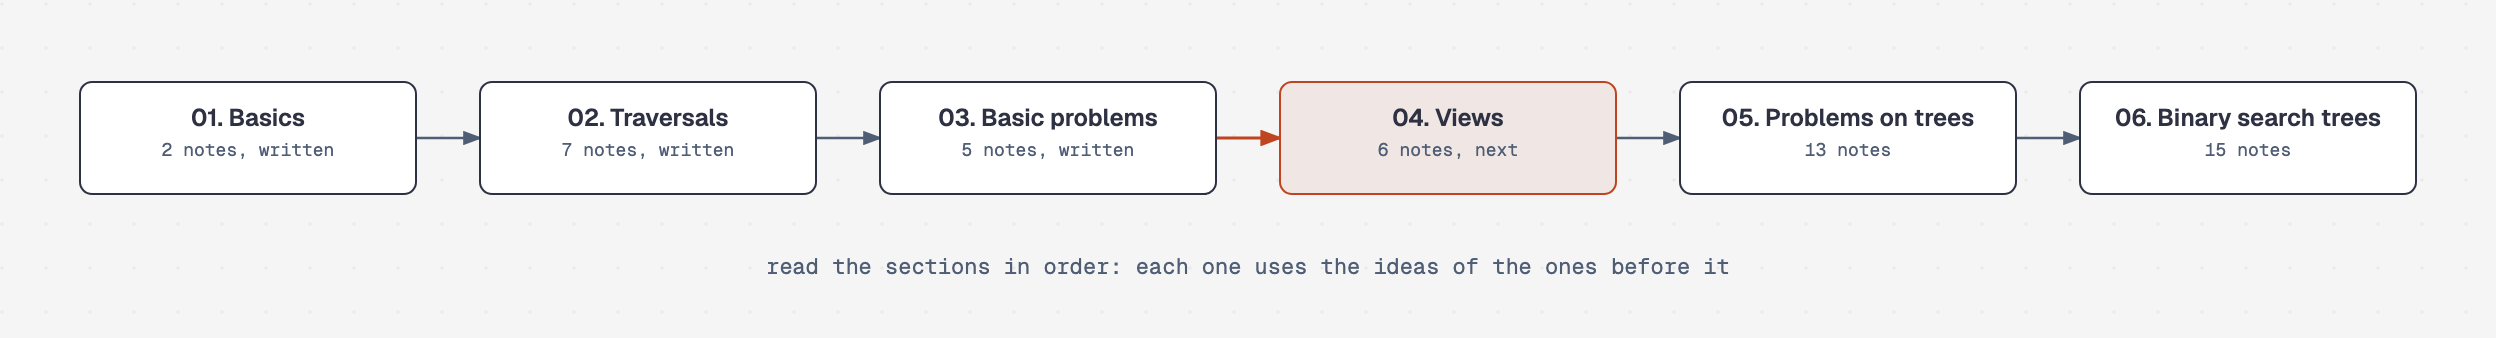
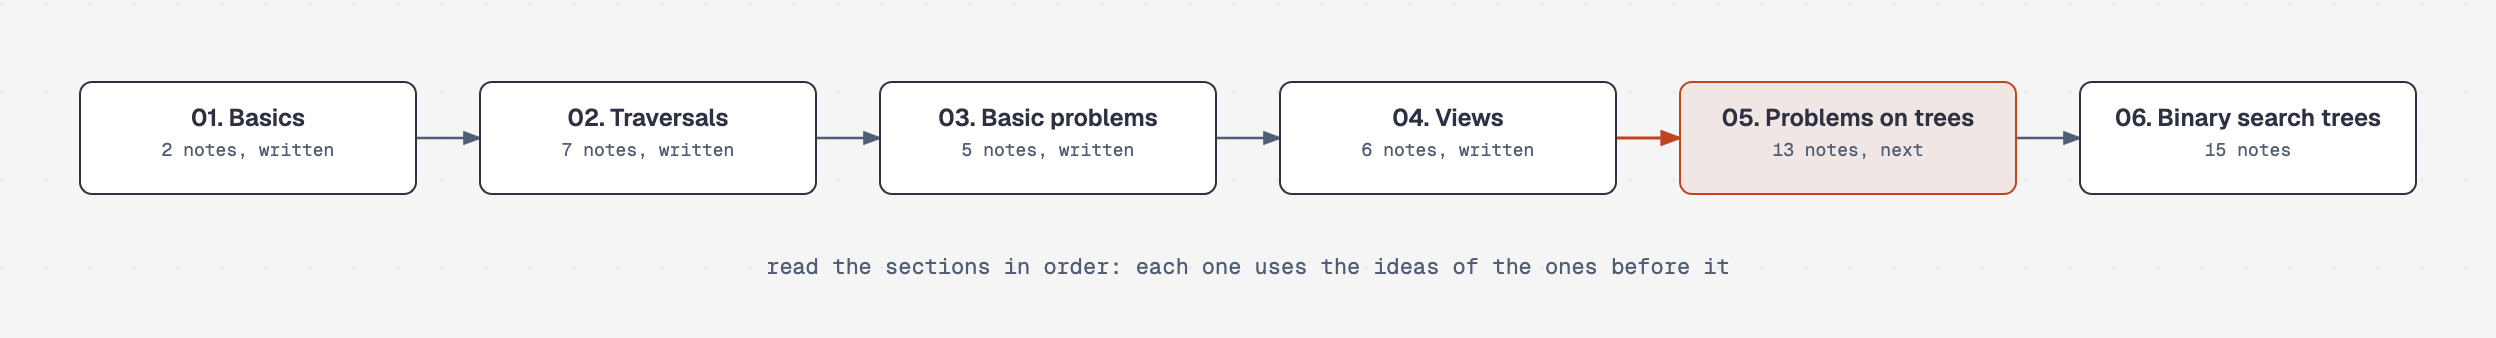
Trees guide and root README: section 04 Views written

Changed region(s): [[0.4688, 0.2367, 0.8125, 0.5917]]

diff --git a/README.md b/README.md
@@ -21,7 +21,7 @@ Counts are problems written, broken down by difficulty tier. Theory notes (like 
 | 05 | Linked List | Reversal, cycle detection, merge | – | – | – | – | Planned |
 | 06 | Binary Search | On answer space, rotated arrays | – | – | – | – | Planned |
 | 07 | [**Recursion**](07.%20Recursion/) | Pick/not-pick, backtracking, constraints | 2 | 5 | 13 | **20** | Complete |
-| 08 | [**Trees**](08.%20Trees/) | Tree basics, traversals, views, BST | 7 | 3 | 1 | **14** | In progress |
+| 08 | [**Trees**](08.%20Trees/) | Tree basics, traversals, views, BST | 8 | 7 | 2 | **20** | In progress |
 | 09 | Heaps | Top-K, merge K sorted, running median | – | – | – | – | Planned |
 | 10 | Greedy | Interval scheduling, exchange argument | – | – | – | – | Planned |
 | 11 | [**Graphs**](11.%20Graphs/) | BFS/DFS, topo sort, Dijkstra, MST, DSU | 5 | 22 | 2 | **29** | In progress |
@@ -30,7 +30,7 @@ Counts are problems written, broken down by difficulty tier. Theory notes (like 
 | 14 | Bit Manipulation | XOR tricks, masks, bit counting | – | – | – | – | Planned |
 | 15 | Intervals | Merge, insert, overlap counting | – | – | – | – | Planned |
 | 16 | Databases | Joins, window functions, aggregation | – | – | – | – | Planned |
-| | **Total** | | **71** | **86** | **24** | **184** | |
+| | **Total** | | **72** | **90** | **25** | **190** | |
 
 **Roadmap.** Arrows point from a topic to the topics that build on it. Start at the top and move down once every arrow into a topic is done. For example, Graphs needs Trees (graph traversal grows from tree traversal) and Heaps (Dijkstra uses a heap). Dynamic Programming needs Recursion and Graphs. Databases is a separate track you can do any time.
 
@@ -384,6 +384,17 @@ Trees store things in a hierarchy: one root, and every other node below exactly 
 | 3 | [543. Diameter of Binary Tree](08.%20Trees/03.%20Basic%20problems/12.%20543.%20Diameter%20of%20Binary%20Tree.md) | Easy | Every path bends at one node; track left height plus right height while returning heights | [543](https://leetcode.com/problems/diameter-of-binary-tree/) | `O(n)` | `O(h)` |
 | 4 | [124. Binary Tree Maximum Path Sum](08.%20Trees/03.%20Basic%20problems/13.%20124.%20Binary%20Tree%20Maximum%20Path%20Sum.md) | Hard | Return one-sided gains, drop negative sides, track value plus both gains | [124](https://leetcode.com/problems/binary-tree-maximum-path-sum/) | `O(n)` | `O(h)` |
 | 5 | [100. Same Tree](08.%20Trees/03.%20Basic%20problems/14.%20100.%20Same%20Tree.md) | Easy | Walk both trees together; empty spots must match too | [100](https://leetcode.com/problems/same-tree/) | `O(n)` | `O(h)` |
+
+### Views
+
+| # | Problem | Difficulty | Key Idea | Source | Time | Space |
+|:---:|:---|:---:|:---|:---:|:---:|:---:|
+| 1 | [545. Boundary of Binary Tree](08.%20Trees/04.%20Views/15.%20545.%20Boundary%20of%20Binary%20Tree.md) | Medium | Root, left edge down, leaves left to right, right edge up; leaves added once | [545](https://leetcode.com/problems/boundary-of-binary-tree/) | `O(n)` | `O(h)` |
+| 2 | [987. Vertical Order Traversal of a Binary Tree](08.%20Trees/04.%20Views/16.%20987.%20Vertical%20Order%20Traversal%20of%20a%20Binary%20Tree.md) | Hard | Give each node (column, row); sort by column, row, then value | [987](https://leetcode.com/problems/vertical-order-traversal-of-a-binary-tree/) | `O(n log n)` | `O(n)` |
+| 3 | [Top View of Binary Tree](08.%20Trees/04.%20Views/17.%20Top%20View%20of%20Binary%20Tree.md) | Medium | BFS with columns; keep the first node met in each column | [GfG](https://www.geeksforgeeks.org/problems/top-view-of-binary-tree/1) | `O(n)` | `O(n)` |
+| 4 | [Bottom View of Binary Tree](08.%20Trees/04.%20Views/18.%20Bottom%20View%20of%20Binary%20Tree.md) | Medium | BFS with columns; overwrite, so the last node met in each column stays | [GfG](https://www.geeksforgeeks.org/problems/bottom-view-of-binary-tree/1) | `O(n)` | `O(n)` |
+| 5 | [199. Binary Tree Right Side View](08.%20Trees/04.%20Views/19.%20199.%20Binary%20Tree%20Right%20Side%20View.md) | Medium | One node per level; DFS right-first records the first node on each new level | [199](https://leetcode.com/problems/binary-tree-right-side-view/) | `O(n)` | `O(h)` |
+| 6 | [Left View of Binary Tree](08.%20Trees/04.%20Views/20.%20Left%20View%20of%20Binary%20Tree.md) | Easy | Same as the right view with the two recursive calls swapped | [GfG](https://www.geeksforgeeks.org/problems/left-view-of-binary-tree/1) | `O(n)` | `O(h)` |
 
 ## 11. Graphs
 

diff --git a/08. Trees/README.md b/08. Trees/README.md
@@ -13,7 +13,7 @@ Read the sections in order. Every note follows the same shape as the rest of thi
 | 01 | Basics | What a tree is, its parts, the five types, and how to store one in code | 2 | Written |
 | 02 | Tree Traversals | Visiting every node: preorder, inorder, postorder, level order and zigzag | 7 | Written |
 | 03 | Basic Problems | First recursive problems: depth, balance, diameter, path sum, same tree | 5 | Written |
-| 04 | Views | What you see from the side, top or bottom, and the boundary walk | 6 | Planned |
+| 04 | Views | What you see from the side, top or bottom, and the boundary walk | 6 | Written |
 | 05 | Problems on Trees | Symmetry, paths, ancestors, width, distances, building and flattening trees | 13 | Planned |
 | 06 | Binary Search Trees | Trees kept in sorted order: search, floor, ceil, insert, delete, validate, iterate, recover | 15 | Planned |
 
@@ -58,12 +58,12 @@ What you see from the side, top or bottom, and the boundary walk.
 
 | # | Note / Problem | Key idea | Source | Status |
 |:---:|:---|:---|:---:|:---:|
-| 1 | 545. Boundary of Binary Tree | Key idea is added when this note is written | LeetCode problem 545 | Planned |
-| 2 | 987. Vertical Order Traversal of a Binary Tree | Key idea is added when this note is written | LeetCode problem 987 | Planned |
-| 3 | Top View of Binary Tree | Key idea is added when this note is written | Lecture notes (GfG style) | Planned |
-| 4 | Bottom View of Binary Tree | Key idea is added when this note is written | Lecture notes (GfG style) | Planned |
-| 5 | 199. Binary Tree Right Side View | Key idea is added when this note is written | LeetCode problem 199 | Planned |
-| 6 | 199. Binary Tree Left Side View | Key idea is added when this note is written | LeetCode problem 199 | Planned |
+| 1 | [545. Boundary of Binary Tree](04.%20Views/15.%20545.%20Boundary%20of%20Binary%20Tree.md) | Root, left edge down, leaves left to right, right edge up; leaves added once | [545](https://leetcode.com/problems/boundary-of-binary-tree/) | Written |
+| 2 | [987. Vertical Order Traversal of a Binary Tree](04.%20Views/16.%20987.%20Vertical%20Order%20Traversal%20of%20a%20Binary%20Tree.md) | Give each node (column, row); sort by column, row, then value | [987](https://leetcode.com/problems/vertical-order-traversal-of-a-binary-tree/) | Written |
+| 3 | [Top View of Binary Tree](04.%20Views/17.%20Top%20View%20of%20Binary%20Tree.md) | BFS with columns; keep the first node met in each column | [GfG](https://www.geeksforgeeks.org/problems/top-view-of-binary-tree/1) | Written |
+| 4 | [Bottom View of Binary Tree](04.%20Views/18.%20Bottom%20View%20of%20Binary%20Tree.md) | BFS with columns; overwrite, so the last node met in each column stays | [GfG](https://www.geeksforgeeks.org/problems/bottom-view-of-binary-tree/1) | Written |
+| 5 | [199. Binary Tree Right Side View](04.%20Views/19.%20199.%20Binary%20Tree%20Right%20Side%20View.md) | One node per level; DFS right-first records the first node on each new level | [199](https://leetcode.com/problems/binary-tree-right-side-view/) | Written |
+| 6 | [Left View of Binary Tree](04.%20Views/20.%20Left%20View%20of%20Binary%20Tree.md) | Same as the right view with the two recursive calls swapped | [GfG](https://www.geeksforgeeks.org/problems/left-view-of-binary-tree/1) | Written |
 
 ## 05. Problems on Trees
 

diff --git a/08. Trees/04. Views/20. Left View of Binary Tree.md b/08. Trees/04. Views/20. Left View of Binary Tree.md
@@ -2,7 +2,7 @@
 
 | Difficulty | Pattern | Key idea | Source | Time | Space | Around this note |
 |:---:|:---:|:---|:---:|:---:|:---:|:---:|
-| **Medium** | One Node per Level | From the left side you see exactly one node per level: the leftmost one. A DFS that goes left first meets it first on every level | [Left View of Binary Tree (GfG)](https://www.geeksforgeeks.org/problems/left-view-of-binary-tree/1) | `O(n)` | `O(h)` | [Right Side View](19.%20199.%20Binary%20Tree%20Right%20Side%20View.md) |
+| **Easy** | One Node per Level | From the left side you see exactly one node per level: the leftmost one. A DFS that goes left first meets it first on every level | [Left View of Binary Tree (GfG)](https://www.geeksforgeeks.org/problems/left-view-of-binary-tree/1) | `O(n)` | `O(h)` | [Right Side View](19.%20199.%20Binary%20Tree%20Right%20Side%20View.md) |
 
 ## 1. Problem Statement
 
